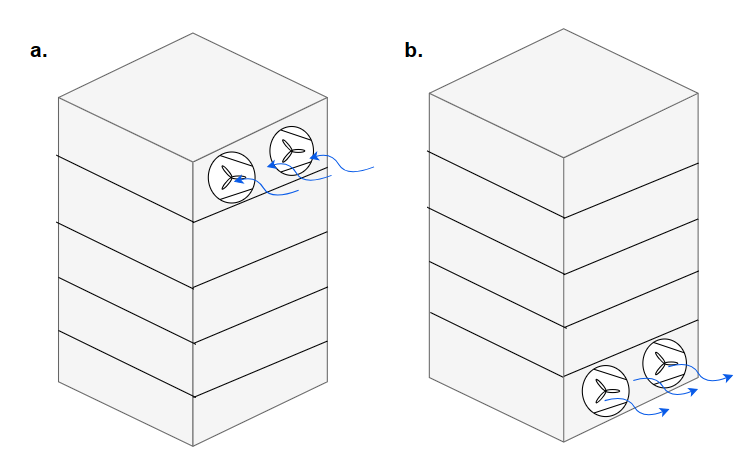
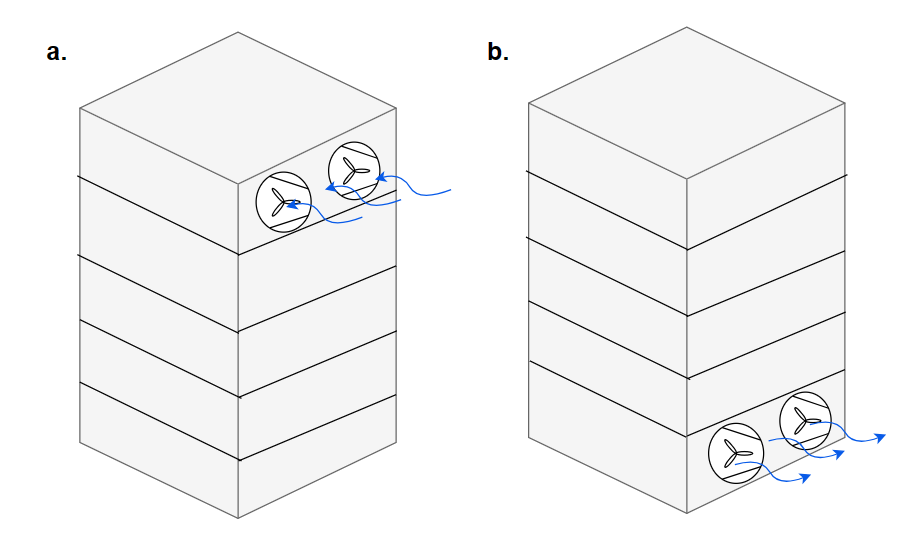
system design and architecture added

diff --git a/README.md b/README.md
@@ -64,6 +64,30 @@ This documentation outlines the procedures undertaken to construct a comprehensi
 
 Before commencing the project design process, a comprehensive file containing all specifications was compiled. This file proved invaluable throughout the project, aiding in power and cooling calculations and enhancing our understanding of the system. [Specification of all the components can be found here!](hardware.md)
 
+Initially, a design concept was developed, featuring two cases where motherboards were stacked vertically, each housing five motherboards. These motherboards would be powered by a 750W Power Supply Unit (PSU). Additionally, this design would be connected to a Single Board Computer (SBC), serving as the head node. Figure 1 illustrates the initial design idea.
+
+<div align="center">
+
+![Initial_Design_Sketch](pictures/initialDesign.png)<br>
+      <b>Figure 1: Initial Design Sketch</b>
+      <br>
+
+</div>
+
+But the initial idea was dropped, as it was realised that single board computer is not required, as motherboard with a wifi adapter was powerful than a single board to work as a head node. because of the time constraint, only one case was designed with 5 motherboards, and PSU was also changed because of technical issues. Therefore the ised was finalised which is similar to the initial idea but only one case with five motherboard were used and the position of fans were moved to the side  which is much efficient place which will be discussed below. The final design is depicted in figure 2.
+
+However, the initial concept was abandoned upon the realization that a single motherboard with a Wi-Fi adapter was more powerful compared to a single board computer for serving as the head node. Due to time constraints, only one case was designed to accommodate five motherboards, and the PSU was replaced due to technical challenges. Consequently, the finalized design closely resembled the initial idea, with a single case housing five motherboards. Additionally, the positioning of fans was relocated to the side, which was deemed more efficient. The final design is depicted in Figure 2.
+
+<div align="center">
+
+![Final_Design_Sketch](pictures/finalDesignSketch.PNG)<br>
+      <b>Figure 1: Final Design Sketch</b>
+      <br>
+
+</div>
+
+Once the basic structure of the HPC was conceptualized, technical research was initiated to gather essential information and conduct necessary calculations.
+
 # 2. Technology Research: 
 ***Conduct comprehensive research on HPC technologies, power management, non-volatile storage, and RAM. Justify technology choices based on problem domain appropriateness.*** 
 
